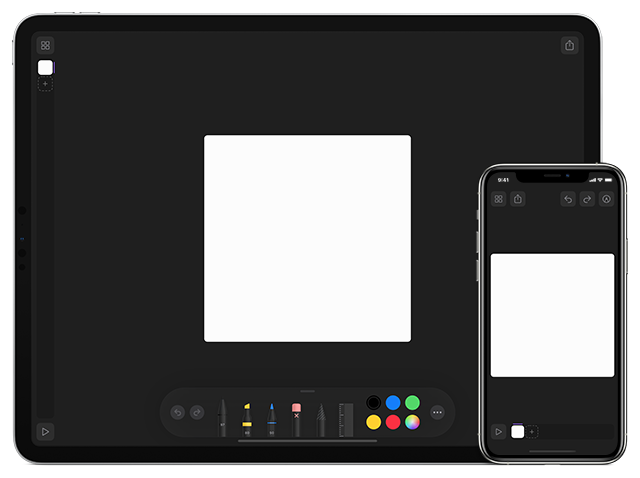
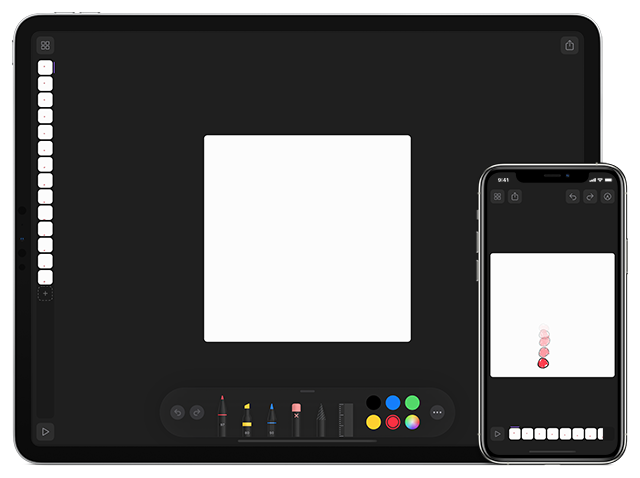
Update hero image with animation

diff --git a/content/_index.html b/content/_index.html
@@ -3,7 +3,7 @@
 
 <h1>Kineo</h1>
 <h2>Create stunning animations on iPhone or iPad.</h2>
-<div class="image-container"><img srcset="/images/kineo-hero.png, /images/kineo-hero@2x.png 2x, /images/kineo-hero@3x.png 3x" src="/images/kineo-hero.png"/></div>
+<div class="image-container"><img srcset="/images/ball.png, /images/ball@2x.png 2x, /images/ball@3x.png 3x" src="/images/ball.png"/></div>
 <p>With Kineo, you can create stunning animations on your iPhone or iPad. Kineo’s frame-by-frame drawing tools make it simple to create and share your own animations with the world.</p>
 <p>Kineo shows you faint reminders of the last few pages, making it easy to draw the next. When you’re done, you can share your creation on Instagram, Twitter, YouTube, and more. You can even use your very own animations as stickers in the Messages app.</p>
 <h3>Coming Soon.</h3>

diff --git a/themes/kineo/assets/main.scss b/themes/kineo/assets/main.scss
@@ -48,14 +48,19 @@ body {
     width: 100%;
     display: flex;
     justify-content: center;
+    align-items: flex-start;
     margin: 24px 0px;
-}
+ }
 
 img {
     margin: auto;
     @include phone {
         max-width: 100%;
     }
+
+    background-image: url("/images/kineo-hero.png");
+    background-image: image-set(url("/images/kineo-hero.png") 1x,url("/images/kineo-hero@2x.png") 2x,url("/images/kineo-hero@3x.png") 3x,);
+    background-size: 100%;
 }
 
 footer {
